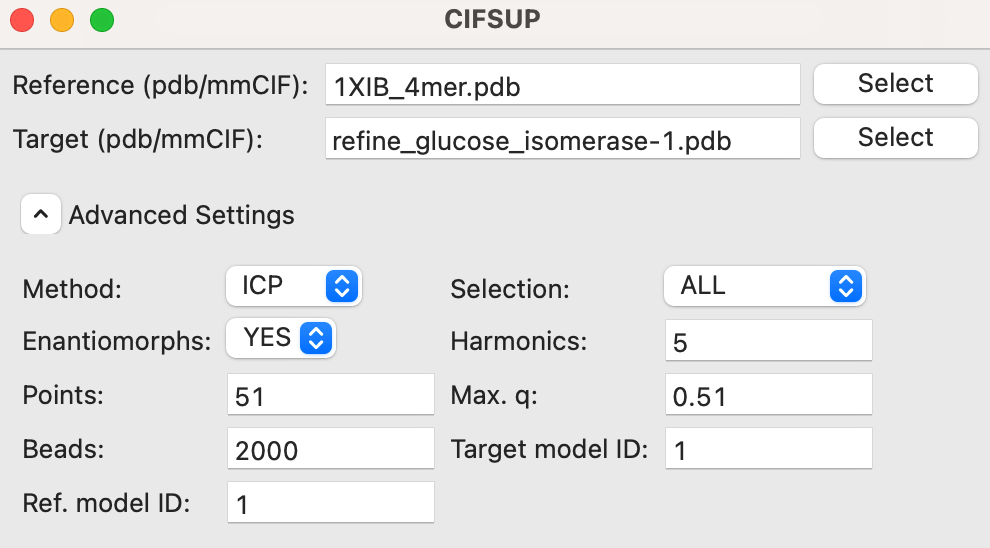
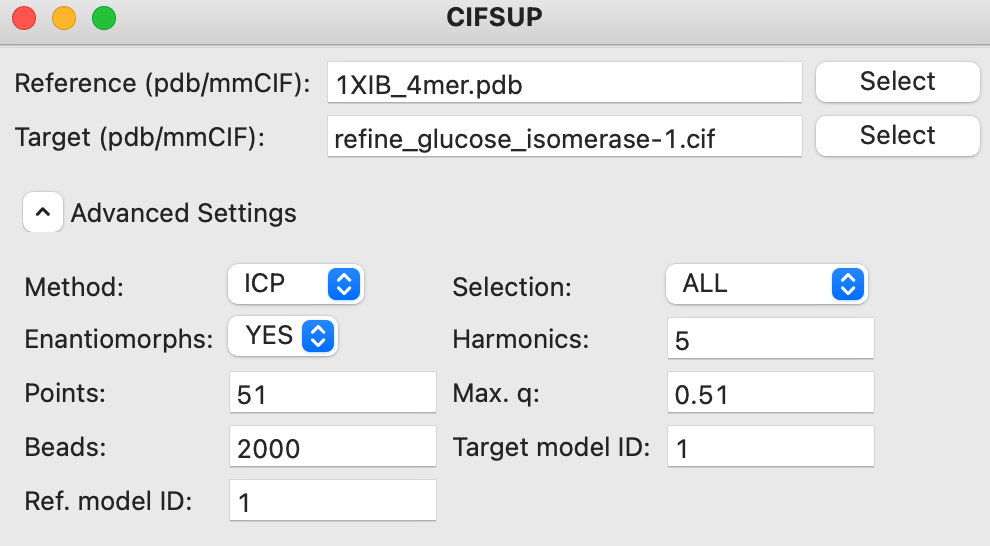
Documentation updates.

diff --git a/bioxtasraw/RAW.py b/bioxtasraw/RAW.py
@@ -12468,8 +12468,8 @@ class SeriesControlPanel(wx.Panel):
                 self._onLoad()
         else:
              wx.CallAfter(wx.MessageBox, ('The "%s" header format is not '
-                'supported for automated SEC-SAXS file loading. You can use '
-                'the "Plot SEC" button in the file window to plot any SEC-SAXS '
+                'supported for automated series file loading. You can use '
+                'the "Plot Series" button in the Files control tab to plot any series '
                 'data. Please contact the RAW developers if you want to add '
                 'automated loading support for a particular header format.' %(hdr_format)) ,
                                       'Error loading file', style = wx.ICON_ERROR | wx.OK)

diff --git a/docs/source/tutorial/s2_dammif.rst b/docs/source/tutorial/s2_dammif.rst
@@ -9,7 +9,7 @@ reconstruction is not unique, a number of distinct reconstructions are generated
 consensus shape is made from the average of these reconstructions. The program DAMAVER from
 the ATSAS package is the most commonly used program for building consensus shapes. Note that you need
 :ref:`ATSAS installed <atsas>` to do this part of the tutorial. Also, this tutorial
-uses ATSAS 3.1.1, some pieces may be slightly diferent on older versions of ATSAS,
+uses ATSAS 3.1.1, some pieces may be slightly different on older versions of ATSAS,
 please see previous versions of this tutorial in that case.
 
 This is not a tutorial on basic principles and best practices for doing bead
@@ -97,7 +97,7 @@ The written version of the tutorial follows.
     how many of the reconstructions were included in the average. If DAMAVER was run on 3 or
     more reconstructions, and ATSAS >=2.8.0 is installed, there will be the output of SASRES
     which provides information on the resolution of the reconstruction. If DAMAVER
-    found more than one cluster, he number of clusters and information
+    found more than one cluster, the number of clusters and information
     on each cluster is shown. Note that DAMCLUST (ATSAS <=3.1.0) provided more information
     about the clusters, so some fields will be blank with ATSAS >=3.1.1.
 
@@ -111,7 +111,7 @@ The written version of the tutorial follows.
 
     *   *Tip:* The model highlighted in blue in the summary tab is the 'most
         probable' model, this can be used as your final bead model instead of
-        doing a dammin refinement.
+        doing a DAMMIN refinement.
 
     *   *Note:* DAMMIN in ATSAS >=3.1.0 doesn't provide the |Dmax| value for
         the model.

diff --git a/docs/source/tutorial/s2_align.rst b/docs/source/tutorial/s2_align.rst
@@ -31,7 +31,7 @@ Bead models - CIFSUP
 *************************
 .. _raw_supcomb:
 
-CIFSUP from the ATSAS suite can be used to align two PDB files. In this context,
+CIFSUP from the ATSAS suite can be used to align two PDB/mmCIF files. In this context,
 one model (the reference) is the high resolution structure while the other
 (the target) is the bead model reconstruction.
 
